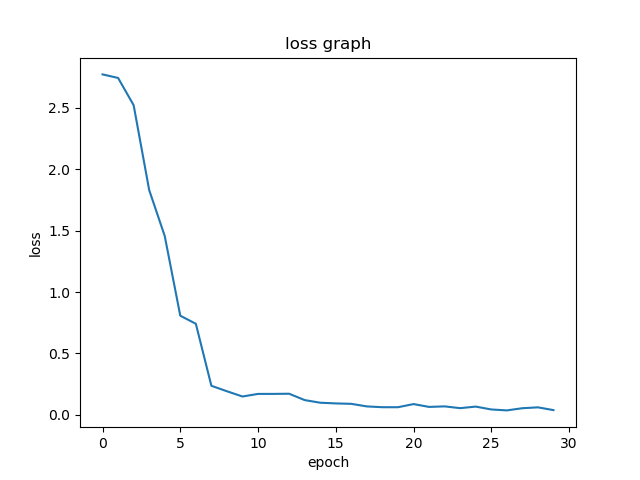
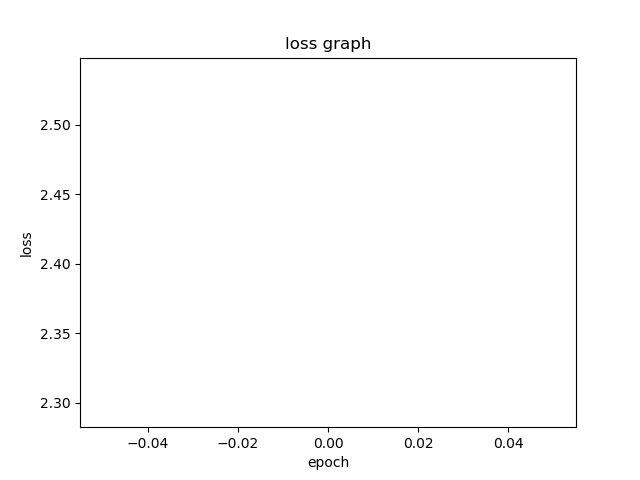
error handling added

diff --git a/predict/make_prediction.py b/predict/make_prediction.py
@@ -2,11 +2,12 @@ import torch
 from torchvision import transforms
 import torchvision.models as models
 from PIL import Image
-
+import numpy as np
 # Define these 3 constants based on your local directories:
-images_dir = "E:/speckles_pic/"  # don't forget the / at the end
-img_name = "test_img.png"
-model_path = "model_params.pth"
+images_dir = "/home/baralmog/specks/iter26/"  # don't forget the / at the end
+img_name = "1,1,1.jpg"
+model_path = "../train/model_params_0.pth"
+
 
 # This function is reading an image and applies transforms to it
 # In case of a problem, None is returned
@@ -24,15 +25,36 @@ image_path = images_dir+img_name
 transform = transforms.Compose([
     transforms.ToTensor(),
 ])
-image = load_image(image_path, transform)
+
 # Now when we have the image, we want to load the model:
 # We use cpu for the predictions
 
-model = models.resnet18(pretrained=False)
-model.load_state_dict(torch.load(model_path, map_location=torch.device('cpu')))
-model.eval()
+# model = models.resnet18(pretrained=False)
+# model.load_state_dict(torch.load(model_path)) #, map_location=torch.device('gpu')))
 
-# Use the model to make predictions
-with torch.no_grad():
-    output = model(image)
-    x = 1
+
+def make_prediction(model_path, image_path):
+    model = torch.load(model_path, map_location='cpu')
+    model.to('cpu')
+    # If the model was originally trained using DataParallel or DistributedDataParallel
+    if isinstance(model, torch.nn.DataParallel) or isinstance(model, torch.nn.parallel.DistributedDataParallel):
+        model = model.module  # Get the underlying model
+
+    # Move each parameter and buffer to CPU
+    for parameter in model.parameters():
+        parameter.data = parameter.data.to('cpu')
+        if parameter._grad is not None:
+            parameter._grad.data = parameter._grad.data.to('cpu')
+
+    model.eval()
+    image = load_image(image_path, transform)
+    # Use the model to make predictions
+    with torch.no_grad():
+        input_image = torch.unsqueeze(image, 0)  # Add a batch dimension
+        output = model(input_image)
+    #output = np.copy(output.numpy())
+    output = output.cpu().numpy()[0]
+    return np.round(output)
+
+
+print(make_prediction(model_path, image_path))

diff --git a/train/main.py b/train/main.py
@@ -126,7 +126,7 @@ print(f"working with device: {device}")
 loss_fn = nn.MSELoss()# .to(device)
 optimizer = torch.optim.Adam(model.parameters(), lr=learning_rate)
 scheduler = torch.optim.lr_scheduler.StepLR(optimizer, step_size=8, gamma=0.3)
-epochs = 30
+epochs = 1
 loss_lst = []
 
 
@@ -179,7 +179,7 @@ for epoch in range(epochs):
     train(train_dataloader, loss_fn, optimizer, device)
     test(test_dataloader, loss_fn, loss_lst, device)
 
-torch.save(model.state_dict(), 'model_params.pth')
+torch.save(model, 'model_params_0.pth')
 plt.figure()
 plt.plot(loss_lst)
 plt.xlabel('epoch')
